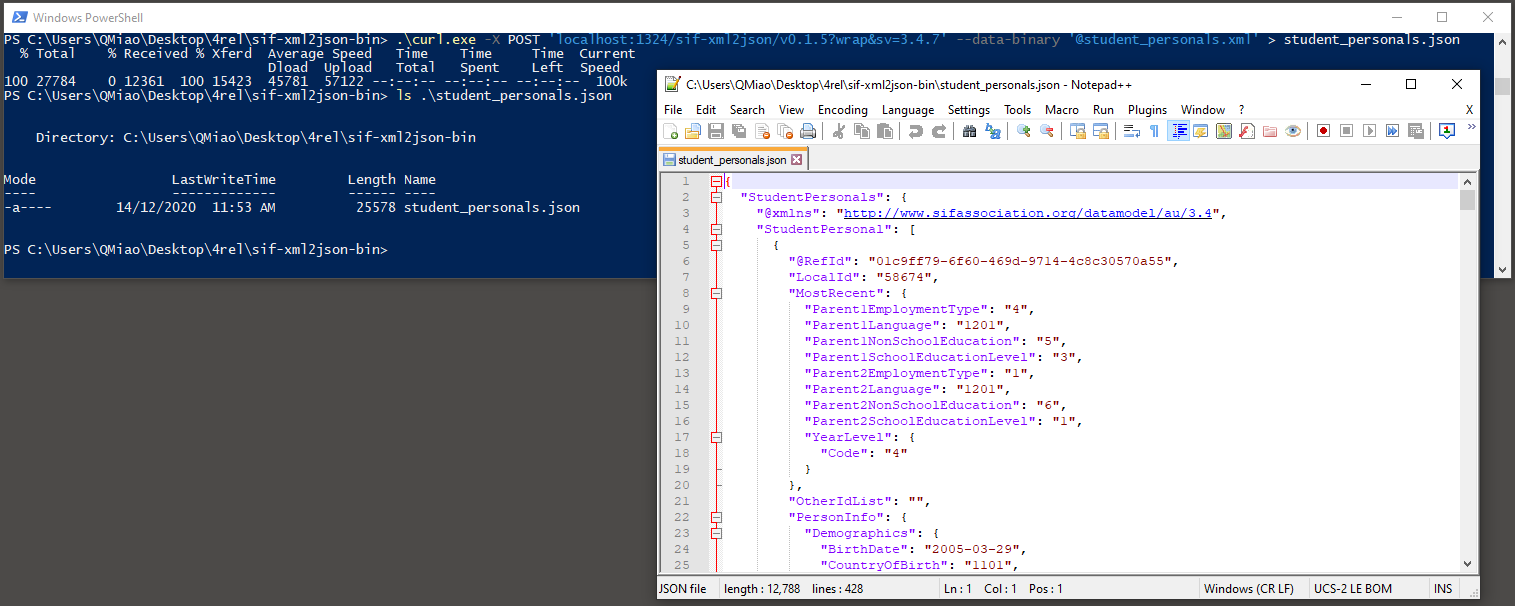
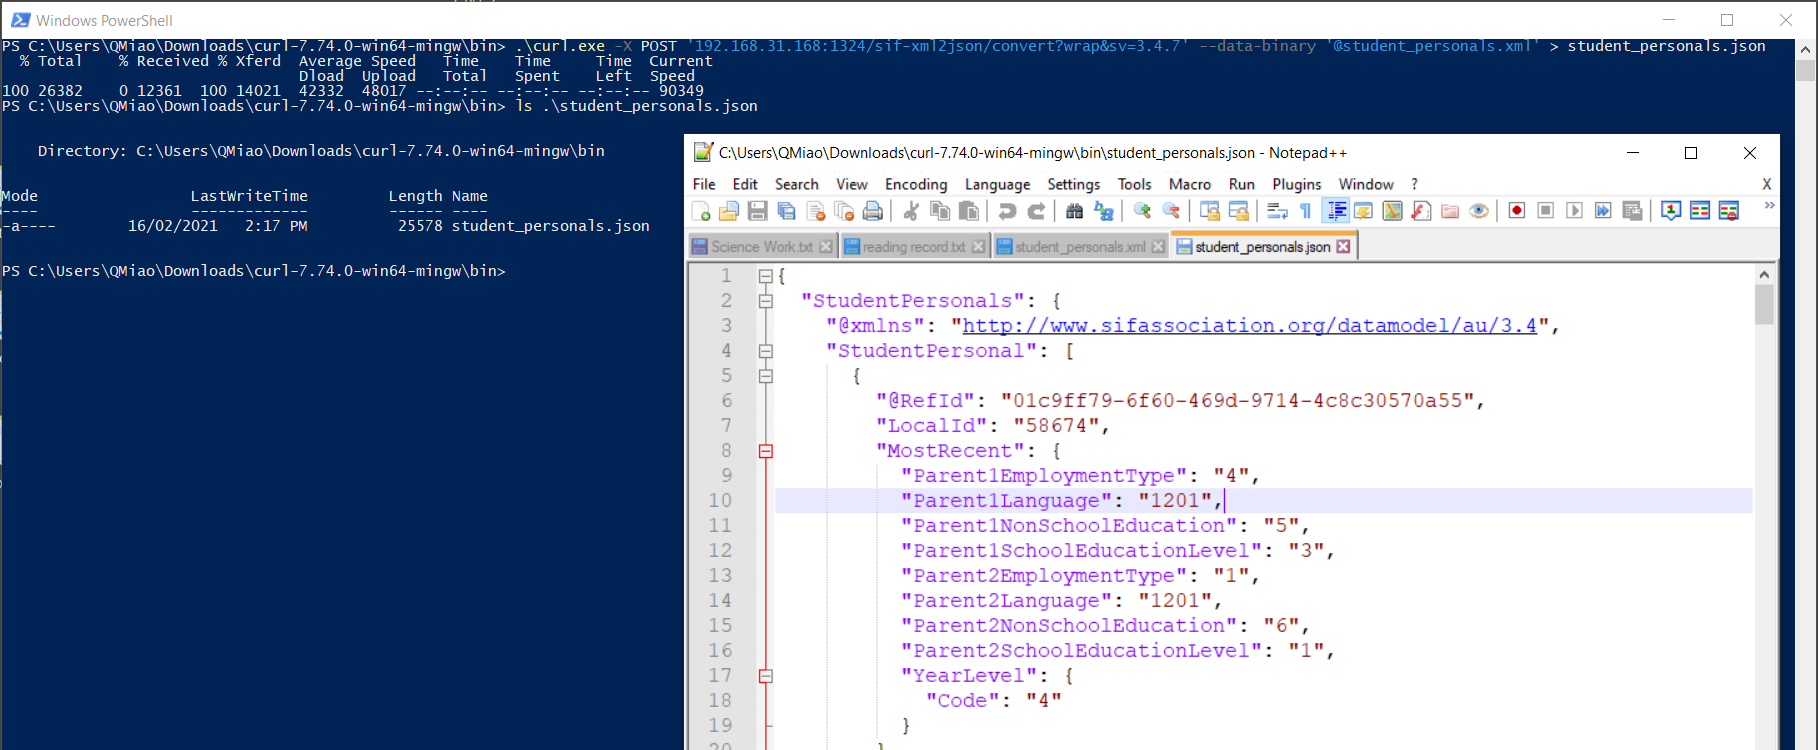
* API changed, version string is not needed in API path

diff --git a/server/main.go b/server/main.go
@@ -15,7 +15,6 @@ import (
 	"github.com/cdutwhu/gonfig/attrim"
 	"github.com/cdutwhu/gonfig/strugen"
 	"github.com/cdutwhu/gotil/misc"
-	"github.com/cdutwhu/gotil/rflx"
 	jt "github.com/cdutwhu/json-tool"
 	xt "github.com/cdutwhu/xml-tool"
 	"github.com/labstack/echo-contrib/jaegertracing"
@@ -40,6 +39,18 @@ func mkCfg4Clt(cfg interface{}) {
 	strugen.GenNewCfg(outSrc)
 }
 
+func mkCfg4Docker(cfg interface{}) {
+	forel := "./config_rel.toml"
+	gonfig.Save(forel, cfg)
+	outToml := "../config_d.toml"
+	os.Remove(outToml)
+	attrim.RmCfgAttrL1(forel, outToml, "Log", "Server", "Access")
+}
+
+var (
+	gCfg *cfg.Config
+)
+
 func main() {
 	// Load global config.toml file from config/
 	gonfig.SetDftCfgVal("sif-xml2json", "0.0.0")
@@ -54,16 +65,17 @@ func main() {
 		"../config/config.toml",
 	)
 	failOnErrWhen(pCfg == nil, "%v: Config Init Error", errs.CFG_INIT_ERR)
-	Cfg := pCfg.(*cfg.Config)
+	gCfg = pCfg.(*cfg.Config)
 
-	// Trim a shorter config toml file for client package
+	// Trim a shorter config toml file for docker & client package
 	if len(os.Args) > 2 && os.Args[2] == "trial" {
-		mkCfg4Clt(Cfg)
+		mkCfg4Docker(gCfg)
+		mkCfg4Clt(gCfg)
 		return
 	}
 
-	ws := Cfg.WebService
-	var IService interface{} = Cfg.Service // Cfg.Service can be "string", can be "interface{}"
+	ws := gCfg.WebService
+	var IService interface{} = gCfg.Service // gCfg.Service can be "string" or "interface{}"
 	service := IService.(string)
 
 	// Set Jaeger Env for tracing
@@ -72,15 +84,17 @@ func main() {
 	os.Setenv("JAEGER_SAMPLER_PARAM", "1")
 
 	// Set LOGGLY
-	setLoggly(true, Cfg.Loggly.Token, service)
+	setLoggly(false, gCfg.Loggly.Token, service)
 
 	// Set Log Options
 	syncBindLog(true)
 	enableWarnDetail(false)
-	enableLog2F(true, Cfg.Log)
+	if gCfg.Log != "" {
+		enableLog2F(true, gCfg.Log)
+		logGrp.Do(fSf("local log file @ [%s]", gCfg.Log))
+	}
 
-	logGrp.Do(fSf("local log file @ [%s]", Cfg.Log))
-	logGrp.Do(fSf("[%s] Hosting on: [%v:%d], version [%v]", service, localIP(), ws.Port, Cfg.Version))
+	logGrp.Do(fSf("[%s] Hosting on: [%v:%d], version [%v]", service, localIP(), ws.Port, gCfg.Version))
 
 	// Start Service
 	done := make(chan string)
@@ -128,11 +142,11 @@ func HostHTTPAsync(sig <-chan os.Signal, done chan<- string) {
 	e.Logger.Infof(" ------------------------ e.Logger.Infof ------------------------ ")
 
 	var (
-		Cfg    = rflx.Env2Struct("Config", &cfg.Config{}).(*cfg.Config)
-		port   = Cfg.WebService.Port
+		// Cfg    = rflx.Env2Struct("Config", &cfg.Config{}).(*cfg.Config)
+		port   = gCfg.WebService.Port
 		fullIP = localIP() + fSf(":%d", port)
-		route  = Cfg.Route
-		mMtx   = initMutex(&Cfg.Route)
+		route  = gCfg.Route
+		mMtx   = initMutex(&gCfg.Route)
 		vers   = sr.GetAllVer("v", "")
 	)
 
@@ -147,25 +161,22 @@ func HostHTTPAsync(sig <-chan os.Signal, done chan<- string) {
 		mMtx[path].Lock()
 
 		return c.String(http.StatusOK,
-			// fSf("wget %-55s-> %s\n", fullIP+"/client-linux64", "Get Client(Linux64)")+
-			// 	fSf("wget %-55s-> %s\n", fullIP+"/client-mac", "Get Client(Mac)")+
-			// 	fSf("wget %-55s-> %s\n", fullIP+"/client-win64", "Get Client(Windows64)")+
-			// 	fSf("wget -O config.toml %-40s-> %s\n", fullIP+"/client-config", "Get Client Config")+
-			// 	fSf("\n")+
-			fSf("[POST] %-40s\n%s", fullIP+route.Convert,
-				"--- Upload SIF(XML), return SIF(JSON)\n"+
-					"------ [sv]:   SIF Ver "+fSf("%v", vers)+"\n"+
-					"------ [nats]: send json to NATS\n"+
-					"------ [wrap]: if uploaded SIF file is single root wrapped"))
+			fSf("Converter Server Version: %s\n\n", gCfg.Version)+
+				fSf("API:\n\n [POST] %-40s\n%s", fullIP+route.Convert,
+					"\n Description: Upload SIF(XML), return SIF(JSON)\n"+
+						"\n Parameters:"+
+						"\n -- [sv]:   available SIF Ver: "+fSf("%v", vers)+
+						"\n -- [nats]: send json to NATS?"+
+						"\n -- [wrap]: is uploaded SIF file with single wrapped root?"))
 	})
 
 	// ------------------------------------------------------------------------------------ //
 
 	// mRouteRes := map[string]string{
-	// 	"/client-linux64": Cfg.File.ClientLinux64,
-	// 	"/client-mac":     Cfg.File.ClientMac,
-	// 	"/client-win64":   Cfg.File.ClientWin64,
-	// 	"/client-config":  Cfg.File.ClientConfig,
+	// 	"/client-linux64": gCfg.File.ClientLinux64,
+	// 	"/client-mac":     gCfg.File.ClientMac,
+	// 	"/client-win64":   gCfg.File.ClientWin64,
+	// 	"/client-config":  gCfg.File.ClientConfig,
 	// }
 
 	// routeFun := func(rt, res string) func(c echo.Context) error {
@@ -307,7 +318,7 @@ func HostHTTPAsync(sig <-chan os.Signal, done chan<- string) {
 
 			// Send a copy to NATS
 			if msg {
-				url, subj, timeout := Cfg.NATS.URL, Cfg.NATS.Subject, time.Duration(Cfg.NATS.Timeout)
+				url, subj, timeout := gCfg.NATS.URL, gCfg.NATS.Subject, time.Duration(gCfg.NATS.Timeout)
 				nc, err := nats.Connect(url)
 				if err != nil {
 					status = http.StatusInternalServerError

diff --git a/config/cfg/config.go b/config/cfg/config.go
@@ -21,14 +21,14 @@ type Config struct {
 		Help string
 	}
 	NATS struct {
+		URL string
 		Subject string
 		Timeout int
-		URL string
 	}
 	Server struct {
-		Protocol string
 		IP interface{}
 		Port interface{}
+		Protocol string
 	}
 	Access struct {
 		Timeout int

diff --git a/server/client/config.go b/server/client/config.go
@@ -10,9 +10,9 @@ type Config struct {
 		Help string
 	}
 	Server struct {
-		Protocol string
 		IP string
 		Port int
+		Protocol string
 	}
 	Access struct {
 		Timeout int

diff --git a/README.md b/README.md
@@ -3,40 +3,44 @@
 sifxml2json is a web service utility that converts SIF XML to JSON. It has a sister tool [sif-json2xml](https://github.com/nsip/sif-json2xml)
 that converts SIF JSON to SIF XML.
 
-### Installation prerequisites
+## Installation prerequisites
+
 64-bit platforms are supported.
 
-### Download binary packages
-   You can download the binary packages from [here](https://github.com/nsip/sif-xml2json/releases) - pull down the Assets list to see current releases.
-   
-### Build (optional)
-   If you prefer, you can [build the binary yourself](#build-prerequisite).
+## Download binary packages
 
-### What is in each release package ?
+You can download the binary packages from [here](https://github.com/nsip/sif-xml2json/releases) - pull down the Assets list to see current releases.
 
- *  **sifxml2json(.exe)**  - the converter web service
- *  **config.toml** - configuration file for the converter web service
- *  **student_personals.xml** - a sample SIF xml file for testing
- *  **screenshots** - the screenshots folder contains images to assist with running and testing sifxml2json
- *  **README.md** - these instructions and other information. Note that you can follow the same installation instructions from either the downloaded readme or the github repository readme (which is rendered to include images inline)
+## Build (optional)
 
-### Installation
+If you prefer, you can [build the binary yourself](#build-prerequisite).
+
+## What is in each release package ?
+
+* **sifxml2json(.exe)**  - the converter web service
+* **config.toml** - configuration file for the converter web service
+* **student_personals.xml** - a sample SIF xml file for testing
+* **screenshots** - the screenshots folder contains images to assist with running and testing sifxml2json
+* **README.md** - these instructions and other information. Note that you can follow the same installation instructions from either the downloaded readme or the github repository readme (which is rendered to include images inline)
+
+## Installation
+
    Extract the downloaded zipfile to your chosen working directory, and run the server from there as described below.
 
-### Start server
+## Start server
 
-  Note: A default starting configuration for the server is provided in config.toml. You can edit this if necessary.
+Note: A default starting configuration for the server is provided in config.toml. You can edit this if necessary.
 
-   1. In your terminal (Linux/Mac) or Powershell (Windows), navigate to your chosen working directory.
-   2. Run sifxml2json(.exe):
-   
+1. In your terminal (Linux/Mac) or Powershell (Windows), navigate to your chosen working directory.
+2. Run sifxml2json(.exe):
+
    `./sifxml2json`
-   
-   On startup, you should see output messages printed such as service name, server IP:Port and service version:
-   
-   ![Start service](screenshots/1_start_service.png)
 
-### Play with Insomnia
+   On startup, you should see output messages printed such as service name, server IP:Port and service version:
+
+   ![1 Start service](screenshots/1_start_service.png)
+
+## Play with Insomnia
 
 To give you a quick idea of how sifxml2json works, here's how to convert the sample file provided with the installation.
 
@@ -52,7 +56,7 @@ For this test we'll use Insomnia, a REST-based API testing system, to call the c
 
 5. Add the request `localhost:1324` select `XML` from the body type pulldown, then click Create
 
-6. In the POST field above the centre Request body pane, type `localhost:1324/sif-xml2json/v0.1.5?wrap`
+6. In the POST field above the centre Request body pane, type `localhost:1324/sif-xml2json/convert?wrap`
 
 7. Copy the body of the sample file `student_personals.xml` into the centre Request Body panel.
 
@@ -60,7 +64,7 @@ For this test we'll use Insomnia, a REST-based API testing system, to call the c
 
 ![2 Insomnia test image](screenshots/2_insomnia_test.png)
 
-### Play with Curl
+## Play with Curl
 
 Curl is a client URL tool that can also be used to call the converter service sifxml2json.
 
@@ -68,25 +72,24 @@ Curl is a client URL tool that can also be used to call the converter service si
 
 2. Make sure `curl` is available on your machine.
 (Note: the Windows Powershell version of curl may not work this service.)
-On Windows, if you don't have curl, you can copy it from your Windows system folder (C:\Windows\System32\curl.exe) to your working directory. 
+On Windows, if you don't have curl, you can copy it from your Windows system folder (C:\Windows\System32\curl.exe) to your working directory.
 
 3. In your terminal (Linux/Mac) or Powershell (Windows), navigate to your chosen working directory
 
-4. On Windows: Run `./curl.exe -X POST 'localhost:1324/sif-xml2json/v0.1.5?wrap&sv=3.4.7' --data-binary '@student_personals.xml' > student_personals.json`
-   On other platforms: Run `curl -X POST 'localhost:1324/sif-xml2json/v0.1.5?wrap&sv=3.4.7' --data-binary '@student_personals.xml' > student_personals.json`.
+4. On Windows: Run `./curl.exe -X POST 'localhost:1324/sif-xml2json/convert?wrap&sv=3.4.7' --data-binary '@student_personals.xml' > student_personals.json`
+   On other platforms: Run `curl -X POST 'localhost:1324/sif-xml2json/convert?wrap&sv=3.4.7' --data-binary '@student_personals.xml' > student_personals.json`.
 
 ![3 curl test image](screenshots/3_curl_test.png)
 
-### Notes
+## Notes
 
-   *  If sifxml2json is being run remotely, set the URL `localhost` to the machine's IP address .
-   *  The SIF version parameter (URL param `sv`)can be set to the supported SIF data model versions '3.4.2', '3.4.3' ... '3.4.8.draft'.
-   *  Wrapper parameter (URL param `wrap`): if there is a (non-SIF-object) single wrapper root in the XML file you wish to covert, add the `wrap` parameter.
+* If sifxml2json is being run remotely, set the URL `localhost` to the machine's IP address .
+* The SIF version parameter (URL param `sv`)can be set to the supported SIF data model versions '3.4.2', '3.4.3' ... '3.4.8.draft'.
+* Wrapper parameter (URL param `wrap`): if there is a (non-SIF-object) single wrapper root in the XML file you wish to covert, add the `wrap` parameter.
 
-### More information
-Here is the current SIF data standard:
-http://specification.sifassociation.org/Implementation/AU
+## More information
 
+Here is the current [SIF data standard](http://specification.sifassociation.org/Implementation/AU)
 
 ## Build Prerequisite
 
@@ -107,7 +110,7 @@ http://specification.sifassociation.org/Implementation/AU
    e.g. `./release.sh win64 ~/Desktop/sif-xml2json/` extracts windows version bin package into "~/Desktop/sif-xml2json/".
 
 4. Jump into "~/Desktop/sif-xml2json/", modify 'config.toml' if needed.
-   Please set [Service] & [Version] to your own value.
+   Could set **Service** & **Version** to your own proper value.
 
 5. Run `server`.
    Default port is `1324`, can be set at config.toml.
@@ -119,8 +122,8 @@ http://specification.sifassociation.org/Implementation/AU
 1. Run `docker build --rm -t nsip/sif-xml2json:latest .` to make docker image.
 
 2. In order to do configuration before running docker image.
-   Copy '/sif-xml2json/config/config.toml' to current directory, modify if needed, and name it like `config_d.toml`.
-   Please set [Service] & [Version] to your own value.
+   Copy '/sif-xml2json/config/config.toml' to current directory, modify if needed, and name it - `config_d.toml`.
+   Could set **Service** & **Version** to your own proper value.
 
 3. Run `docker run --rm --mount type=bind,source=$(pwd)/config_d.toml,target=/config.toml -p 0.0.0.0:1324:1324 nsip/sif-xml2json`.
    Default port is `1324`, can be set at config.toml. If not 1324, change above command's '1324' to your own number.
